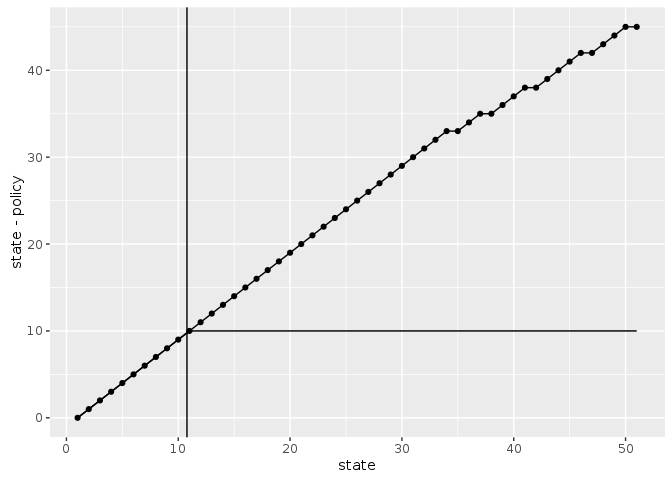
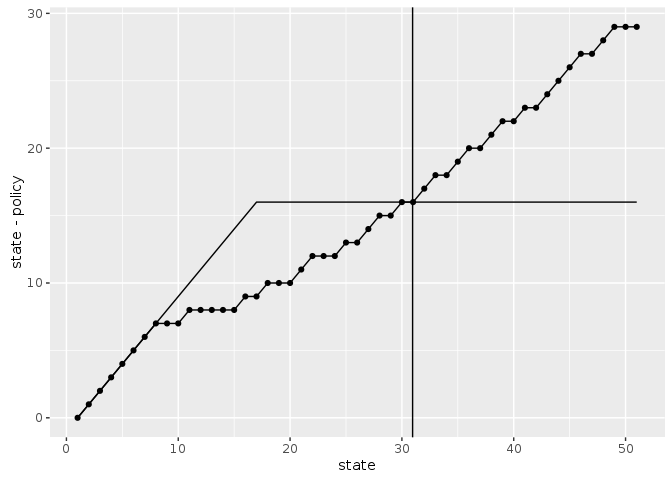
examples on the role of the prior

diff --git a/notebook/visualize_policy.md b/notebook/visualize_policy.md
@@ -27,55 +27,32 @@ library("dplyr")
 
 
 ```r
-log = ".."
-meta_from_log(data.frame(model = "ricker", K = 40), log = log)
+log = "../library"
+meta <- meta_from_log(data.frame(model = "ricker", r = 1.1), log = log)
+meta
 ```
 
 ```
-##                                      id load_time_sec init_time_sec
-## 7  ac32345d-5edc-4b61-933d-5937af69f56c          0.68         12.81
-## 8  3360e2b2-e04e-4536-829c-336a0ba534d9          0.62         22.87
-## 9  75ee70a6-6033-462e-bddb-a3e7245550de          0.64         28.86
-## 10 3fca83f7-86e8-44e7-8300-55875a5ec048          0.65         31.15
-## 14 d6f4fed0-8f47-486d-8af7-6d363b088cca          0.61         23.16
-##    run_time_sec final_precision end_condition n_states n_obs n_actions
-## 7       1524.38        0.324543          <NA>       51    51        51
-## 8       1843.07        2.570020          <NA>       51    51        51
-## 9       2106.44        7.091570          <NA>       51    51        51
-## 10      2352.25       12.725500          <NA>       51    51        51
-## 14      1926.75        2.570020          <NA>       51    51        51
-##    discount                date  model   r  K    C   sigma_g   sigma_m
-## 7      0.95 2016-08-15 04:52:52 ricker 0.1 40 <NA> 0.2829182 0.2829182
-## 8      0.95 2016-08-15 05:24:08 ricker 0.6 40 <NA> 0.2829182 0.2829182
-## 9      0.95 2016-08-15 05:59:44 ricker 1.1 40 <NA> 0.2829182 0.2829182
-## 10     0.95 2016-08-15 06:39:24 ricker 1.6 40 <NA> 0.2829182 0.2829182
-## 14     0.95 2016-08-15 08:52:30 ricker 0.6 40 <NA> 0.2829182 0.2829182
+##                                     id load_time_sec init_time_sec
+## 9 75ee70a6-6033-462e-bddb-a3e7245550de          0.64         28.86
+##   run_time_sec final_precision end_condition n_states n_obs n_actions
+## 9      2106.44         7.09157          <NA>       51    51        51
+##   discount                date  model   r  K    C   sigma_g   sigma_m
+## 9     0.95 2016-08-15 05:59:44 ricker 1.1 40 <NA> 0.2829182 0.2829182
 ```
 
 ## Import a model solution from the library
 
 
 ```r
-meta <- meta_from_log(data.frame(model = "ricker", r = .1, K = 40), log = log)[1,]
-meta
-```
+i <- 1 # just use first match from the log
 
-```
-##                                     id load_time_sec init_time_sec
-## 7 ac32345d-5edc-4b61-933d-5937af69f56c          0.68         12.81
-##   run_time_sec final_precision end_condition n_states n_obs n_actions
-## 7      1524.38        0.324543          <NA>       51    51        51
-##   discount                date  model   r  K    C   sigma_g   sigma_m
-## 7     0.95 2016-08-15 04:52:52 ricker 0.1 40 <NA> 0.2829182 0.2829182
-```
+alpha <- alphas_from_log(meta, log = log)[[i]]
+f <- f_from_log(meta)[[i]]
+m <- models_from_log(meta)[[i]]
 
-```r
-alpha <- alphas_from_log(meta, log = log)[[1]]
-f <- f_from_log(meta)[[1]]
-m <- models_from_log(meta)[[1]]
-
-n_states = meta$n_states
-discount = meta$discount
+n_states = meta$n_states[[i]]
+discount = meta$discount[[i]]
 ```
 
 Find the deterministic optimal solution for this model
@@ -110,17 +87,43 @@ ggplot(aes(state, state - policy)) + geom_line() + geom_point() + geom_line(aes(
 
 ![](visualize_policy_files/figure-html/unnamed-chunk-6-1.png)<!-- -->
 
+## Experiment 2
+
+Role of different prior beliefs on the optimal policy:
+
+
+```r
+low <-  compute_policy(alpha, m$transition, m$observation, m$reward, m$observation[,4,1])
+ave <-  compute_policy(alpha, m$transition, m$observation, m$reward, m$observation[,20,1])
+unif <- compute_policy(alpha, m$transition, m$observation, m$reward)
+high <- compute_policy(alpha, m$transition, m$observation, m$reward, m$observation[,35,1])
+df <- dplyr::bind_rows(low, ave, unif, high, .id = "prior")
+
+
+ggplot(df, aes(state, state - policy, col = prior, pch = prior)) + 
+  geom_point(alpha = 0.5, size = 3) + 
+  geom_line()
+```
+
+![](visualize_policy_files/figure-html/unnamed-chunk-7-1.png)<!-- -->
+
+
+## Experiment 3: 
+
+Simulate dynamics under the policy
 
 
 ```r
 set.seed(1234)
-sim <- sim_pomdp(m$transition, m$observation, m$reward, discount, x0 = 5, Tmax = 20, alpha = alpha)
-
+sim <- sim_pomdp(m$transition, m$observation, m$reward, discount, x0 = 5, Tmax = 100, alpha = alpha)
 sim$df %>% select(-value) %>% gather(variable, state, -time) %>%
 ggplot(aes(time, state, color = variable)) + geom_line() + geom_point() 
 ```
 
-![](visualize_policy_files/figure-html/unnamed-chunk-7-1.png)<!-- -->
+![](visualize_policy_files/figure-html/unnamed-chunk-8-1.png)<!-- -->
+
+Posterior is not stationary:
+
 
 ```r
 Tmax <- length(sim$df$time)
@@ -130,4 +133,30 @@ data.frame(time = 0:Tmax, sim$state_posterior) %>%
   ggplot(aes(state, belief, group = time, alpha = time)) + geom_line() 
 ```
 
-![](visualize_policy_files/figure-html/unnamed-chunk-7-2.png)<!-- -->
+![](visualize_policy_files/figure-html/unnamed-chunk-9-1.png)<!-- -->
+
+## Experiment 4:
+
+Do replicate simulations avoid crashes?
+
+
+```r
+reps <- function(n){
+  data.frame(sim = n, 
+    sim_pomdp(m$transition, m$observation, m$reward, discount, 
+              alpha = alpha, x0 = round(n_states/2), Tmax=20)$df)
+}
+
+set.seed(12345)
+sim_df <- purrr::map_df(1:100, reps)
+
+ggplot(sim_df, aes(time, state, group = sim)) + geom_line()
+```
+
+![](visualize_policy_files/figure-html/unnamed-chunk-10-1.png)<!-- -->
+
+
+
+```r
+#ggplot(sim_df, aes(time, action, group = sim)) + geom_line()
+```
